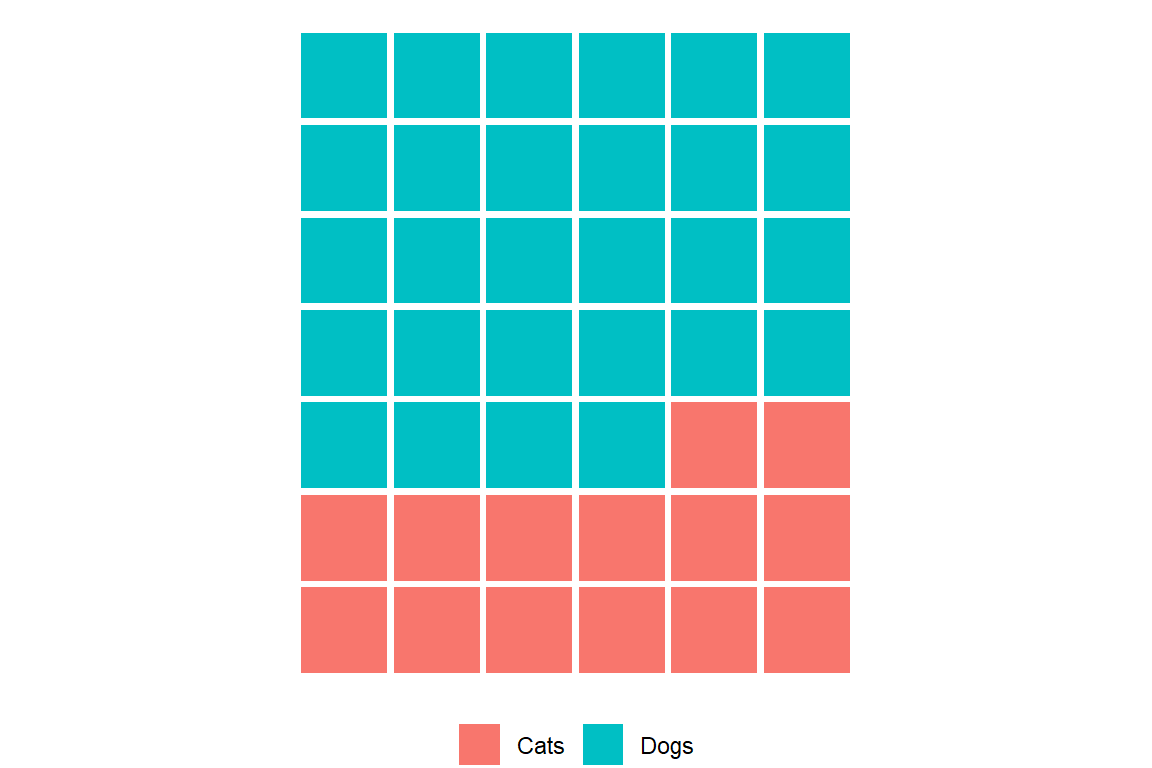
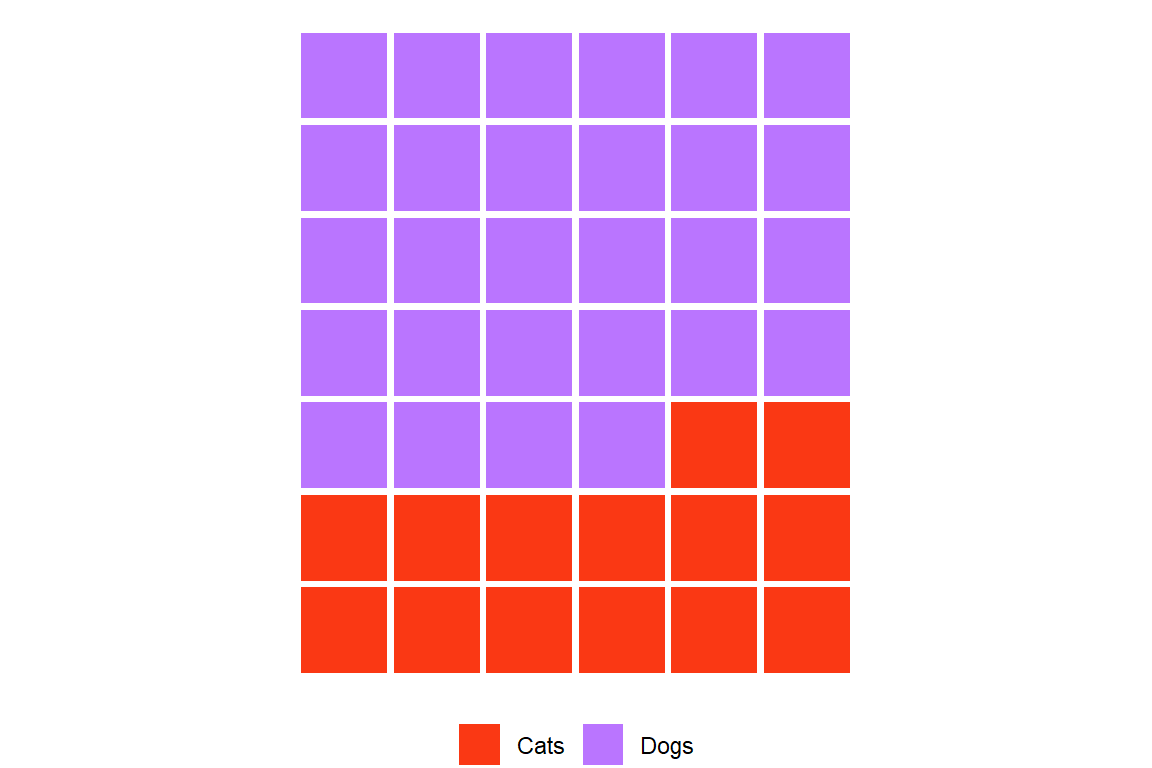
color updates catsdogs

diff --git a/docs/polls/20251208_catsdogs/index.html b/docs/polls/20251208_catsdogs/index.html
@@ -123,7 +123,7 @@ ul.task-list li input[type="checkbox"] {
   <ul>
   <li><a href="#the-age-old-question-cats-or-dogs-has-long-been-debated.-from-ancient-times-both-have-been-revered-as-companions-utilized-for-their-hunting-prowess-and-appreciated-for-their-beauty.-but-how-do-we-feel-about-them-at-epa" id="toc-the-age-old-question-cats-or-dogs-has-long-been-debated.-from-ancient-times-both-have-been-revered-as-companions-utilized-for-their-hunting-prowess-and-appreciated-for-their-beauty.-but-how-do-we-feel-about-them-at-epa" class="nav-link active" data-scroll-target="#the-age-old-question-cats-or-dogs-has-long-been-debated.-from-ancient-times-both-have-been-revered-as-companions-utilized-for-their-hunting-prowess-and-appreciated-for-their-beauty.-but-how-do-we-feel-about-them-at-epa">The age old question, “cats or dogs”, has long been debated. From ancient times, both have been revered as companions, utilized for their hunting prowess, and appreciated for their beauty. But…… how do we feel about them at EPA?</a>
   <ul class="collapse">
-  <li><a href="#counts-and-shares" id="toc-counts-and-shares" class="nav-link" data-scroll-target="#counts-and-shares">Counts and Shares</a></li>
+  <li><a href="#vote-counts-and-shares" id="toc-vote-counts-and-shares" class="nav-link" data-scroll-target="#vote-counts-and-shares">Vote counts and shares</a></li>
   <li><a href="#statistical-difference-from-5050" id="toc-statistical-difference-from-5050" class="nav-link" data-scroll-target="#statistical-difference-from-5050">Statistical difference from 50/50</a></li>
   <li><a href="#how-unusual-is-14-28-under-a-fair-5050-world" id="toc-how-unusual-is-14-28-under-a-fair-5050-world" class="nav-link" data-scroll-target="#how-unusual-is-14-28-under-a-fair-5050-world">How unusual is 14-28 under a fair 50/50 world?</a></li>
   <li><a href="#likelihood-and-bayesian-view-for-the-cats-share" id="toc-likelihood-and-bayesian-view-for-the-cats-share" class="nav-link" data-scroll-target="#likelihood-and-bayesian-view-for-the-cats-share">Likelihood and Bayesian view for the Cats share</a></li>
@@ -173,8 +173,8 @@ ul.task-list li input[type="checkbox"] {
 
 <section id="the-age-old-question-cats-or-dogs-has-long-been-debated.-from-ancient-times-both-have-been-revered-as-companions-utilized-for-their-hunting-prowess-and-appreciated-for-their-beauty.-but-how-do-we-feel-about-them-at-epa" class="level1">
 <h1>The age old question, “cats or dogs”, has long been debated. From ancient times, both have been revered as companions, utilized for their hunting prowess, and appreciated for their beauty. But…… how do we feel about them at EPA?</h1>
-<section id="counts-and-shares" class="level2">
-<h2 class="anchored" data-anchor-id="counts-and-shares">Counts and Shares</h2>
+<section id="vote-counts-and-shares" class="level2">
+<h2 class="anchored" data-anchor-id="vote-counts-and-shares">Vote counts and shares</h2>
 <div class="cell">
 <div class="cell-output-display">
 <div id="fig-bar" class="quarto-float quarto-figure quarto-figure-center anchored">
@@ -243,7 +243,7 @@ Figure&nbsp;2: Simulated Cats counts under a 50/50 world (10,000 polls, N = 42).
 <p>Fraction of simulations at least as extreme (two‑sided):</p>
 <div class="cell">
 <div class="cell-output cell-output-stdout">
-<pre><code>[1] 0.045</code></pre>
+<pre><code>[1] 0.0467</code></pre>
 </div>
 </div>
 </section>
@@ -285,7 +285,7 @@ Figure&nbsp;4: Posterior for p(Cats) with Beta(1,1) prior (posterior = Beta(15,2
 <div class="cell">
 <div class="cell-output cell-output-stdout">
 <pre><code>pp_cat_win     pp_tie pp_dog_win 
-   0.05165    0.02770    0.92065 </code></pre>
+   0.05205    0.02760    0.92035 </code></pre>
 </div>
 </div>
 <p>Bayes factor for “not 50/50” vs “p = 0.5” using Jeffreys prior Beta(0.5,0.5).</p>

diff --git a/docs/polls/index.html b/docs/polls/index.html
@@ -341,7 +341,7 @@ window.Quarto = {
 </a>
 </div>
 </div>
-<div class="quarto-post image-right" data-index="5" data-categories="Rm9vZA==" data-listing-date-sort="1767589200000" data-listing-file-modified-sort="1773164678057" data-listing-date-modified-sort="NaN" data-listing-reading-time-sort="1" data-listing-word-count-sort="93">
+<div class="quarto-post image-right" data-index="5" data-categories="Rm9vZA==" data-listing-date-sort="1767589200000" data-listing-file-modified-sort="1773254778438" data-listing-date-modified-sort="NaN" data-listing-reading-time-sort="1" data-listing-word-count-sort="93">
 <div class="thumbnail">
 <p><a href="../polls/20260105_breakfast_foods/index.html" class="no-external"></a></p><a href="../polls/20260105_breakfast_foods/index.html" class="no-external">
 <p><img loading="lazy" src="../polls/20260105_breakfast_foods/wafflespancakes.jpg" class="thumbnail-image"></p>
@@ -366,7 +366,7 @@ window.Quarto = {
 </a>
 </div>
 </div>
-<div class="quarto-post image-right" data-index="6" data-categories="SG9tZQ==" data-listing-date-sort="1766379600000" data-listing-file-modified-sort="1773254521514" data-listing-date-modified-sort="NaN" data-listing-reading-time-sort="3" data-listing-word-count-sort="406">
+<div class="quarto-post image-right" data-index="6" data-categories="SG9tZQ==" data-listing-date-sort="1766379600000" data-listing-file-modified-sort="1773254592617" data-listing-date-modified-sort="NaN" data-listing-reading-time-sort="3" data-listing-word-count-sort="406">
 <div class="thumbnail">
 <p><a href="../polls/20251222_toiletpaper/index.html" class="no-external"></a></p><a href="../polls/20251222_toiletpaper/index.html" class="no-external">
 <p><img loading="lazy" src="../polls/20251222_toiletpaper/tp_overunder.png" class="thumbnail-image"></p>
@@ -416,7 +416,7 @@ window.Quarto = {
 </a>
 </div>
 </div>
-<div class="quarto-post image-right" data-index="8" data-categories="UGV0cw==" data-listing-date-sort="1765170000000" data-listing-file-modified-sort="1773252237847" data-listing-date-modified-sort="NaN" data-listing-reading-time-sort="6" data-listing-word-count-sort="1101">
+<div class="quarto-post image-right" data-index="8" data-categories="UGV0cw==" data-listing-date-sort="1765170000000" data-listing-file-modified-sort="1773254844022" data-listing-date-modified-sort="NaN" data-listing-reading-time-sort="6" data-listing-word-count-sort="1101">
 <div class="thumbnail">
 <p><a href="../polls/20251208_catsdogs/index.html" class="no-external"></a></p><a href="../polls/20251208_catsdogs/index.html" class="no-external">
 <p><img loading="lazy" data-src="../polls/20251208_catsdogs/catsvdogs.jpg" class="thumbnail-image"></p>
